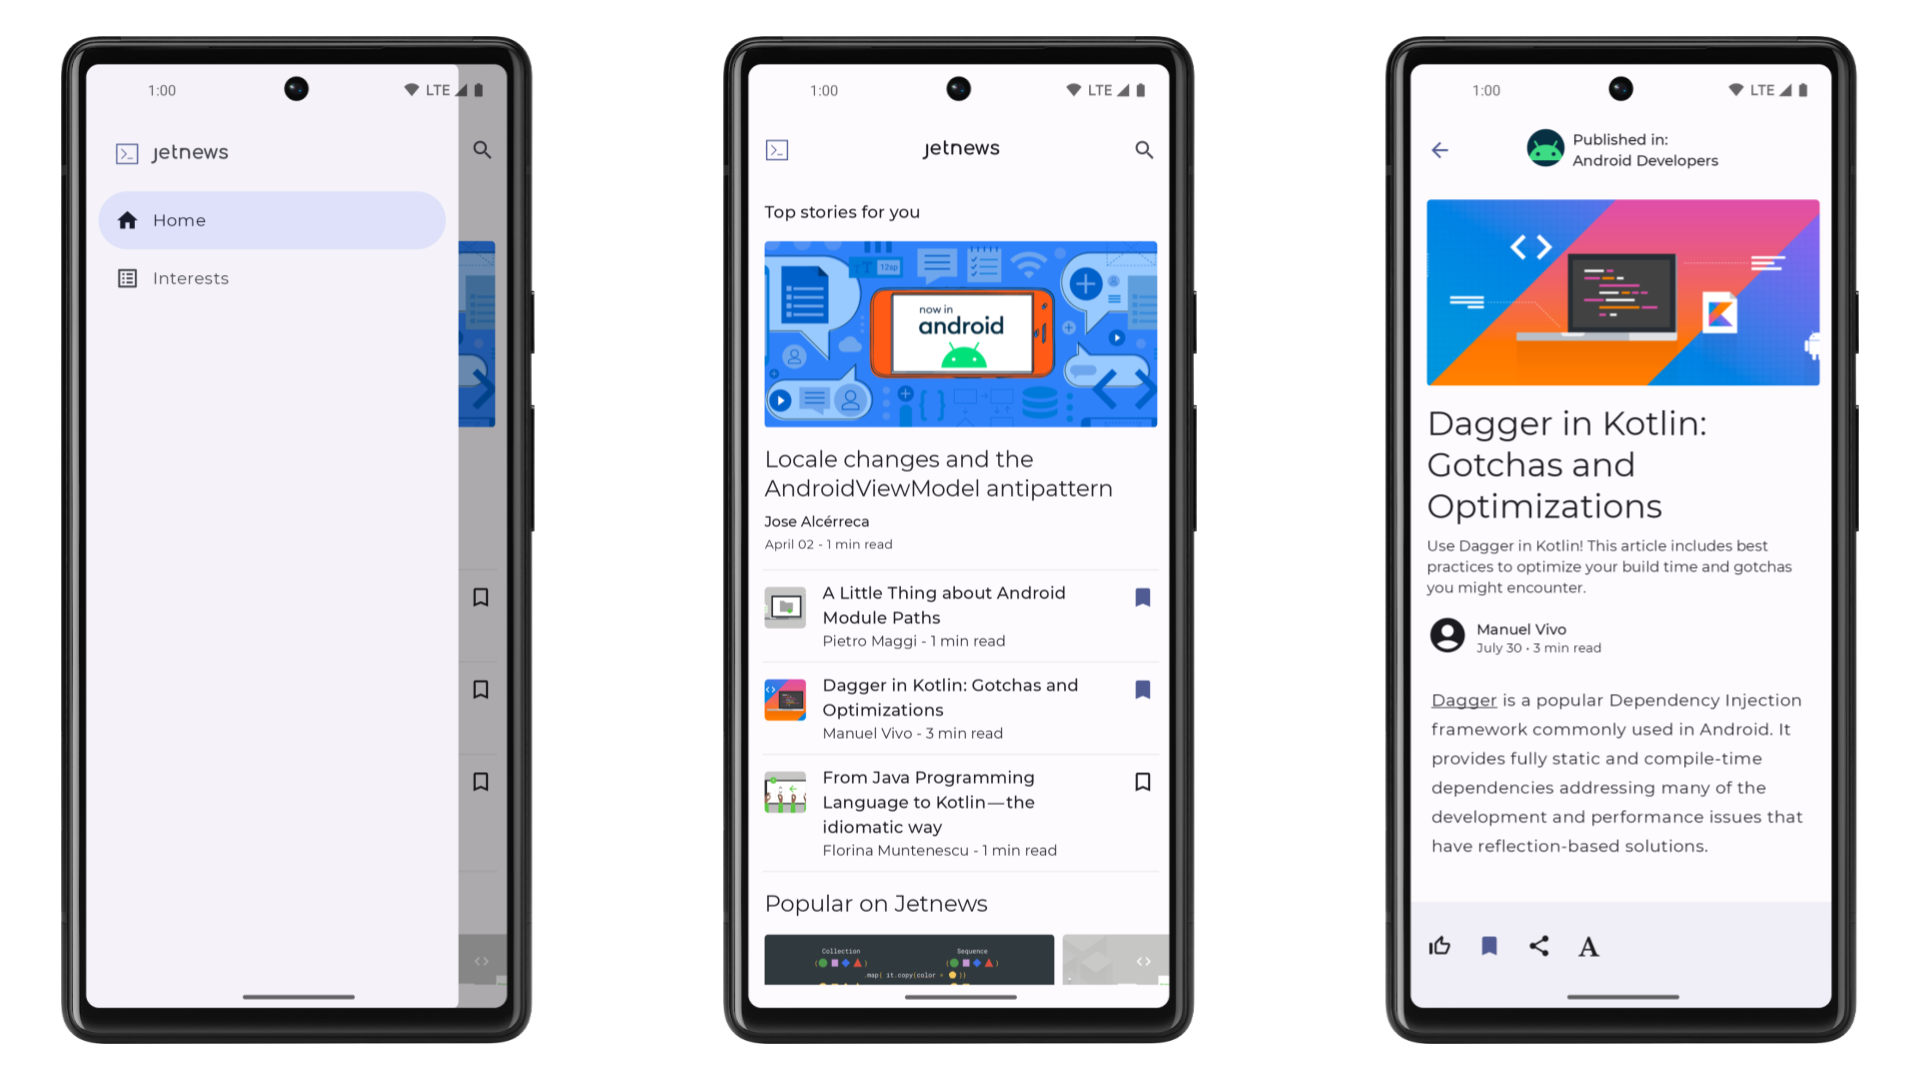
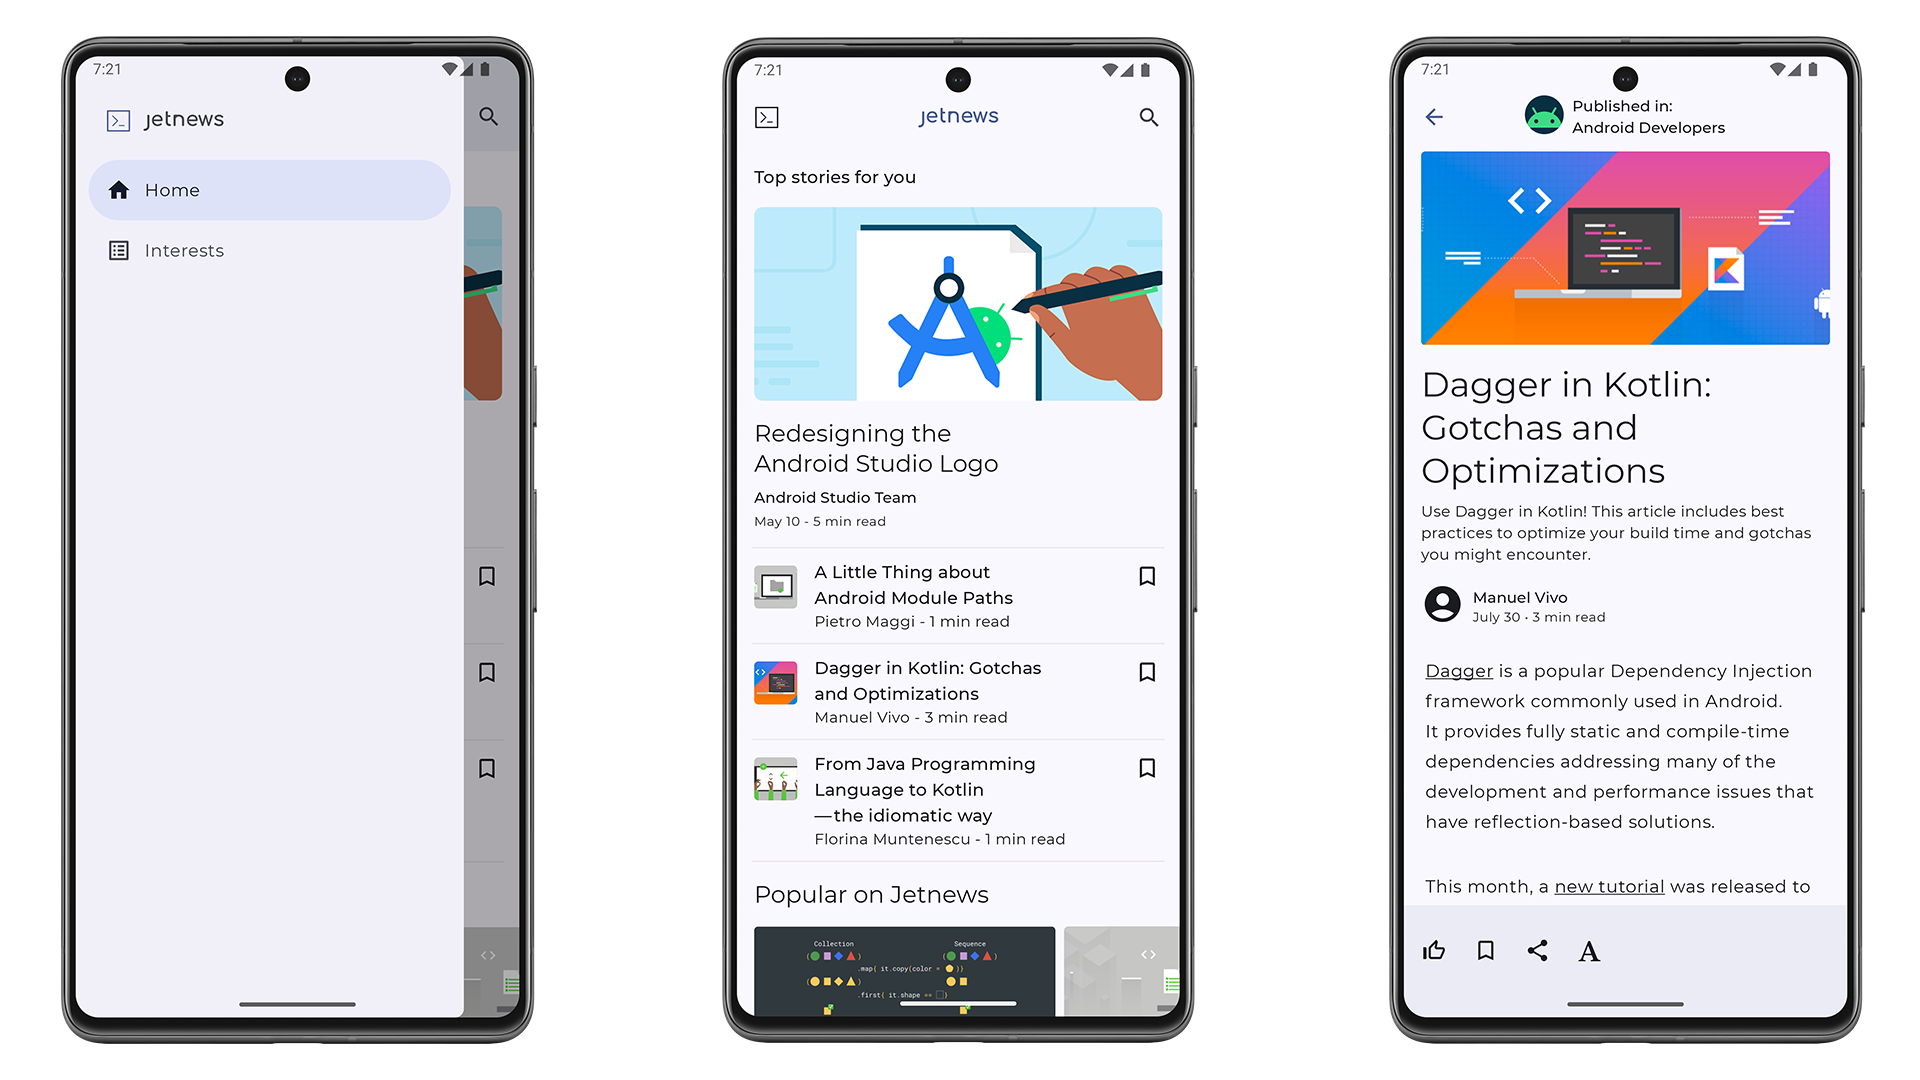
Update assets for article and theme

Changed region(s): [[0.7188, 0.0306, 0.9688, 0.9778], [0.375, 0.0306, 0.625, 0.9778], [0.0312, 0.0306, 0.2812, 0.9778]]

diff --git a/app/src/main/java/com/example/jetnews/data/posts/impl/PostsData.kt b/app/src/main/java/com/example/jetnews/data/posts/impl/PostsData.kt
@@ -41,6 +41,9 @@ val florina = PostAuthor(
 val jose =
     PostAuthor("Jose Alcérreca", "https://medium.com/@JoseAlcerreca")
 
+val androidstudioteam =
+    PostAuthor("Android Studio Team", "https://twitter.com/androidstudio")
+
 val publication = Publication(
     "Android Developers",
     "https://cdn-images-1.medium.com/max/258/1*u7oZc2_5mrkcFaxkXEyfYA@2x.png"
@@ -61,10 +64,10 @@ val paragraphsPost1 = listOf(
     Paragraph(
         ParagraphType.CodeBlock,
         "include ':app'\n" +
-            "include ':features:module1'\n" +
-            "include ':features:module2'\n" +
-            "include ':features:module3'\n" +
-            "include ':features:module4'"
+                "include ':features:module1'\n" +
+                "include ':features:module2'\n" +
+                "include ':features:module3'\n" +
+                "include ':features:module4'"
     ),
     Paragraph(
         ParagraphType.Text,
@@ -703,8 +706,8 @@ val paragraphsPost5 = listOf(
     Paragraph(
         ParagraphType.CodeBlock,
         "public inline fun <T, R> Iterable<T>.map(transform: (T) -> R): List<R> {\n" +
-            "  return mapTo(ArrayList<R>(collectionSizeOrDefault(10)), transform)\n" +
-            "}",
+                "  return mapTo(ArrayList<R>(collectionSizeOrDefault(10)), transform)\n" +
+                "}",
         listOf(
             Markup(MarkupType.Bold, 7, 13),
             Markup(MarkupType.Bold, 88, 97)
@@ -748,8 +751,8 @@ val paragraphsPost5 = listOf(
     Paragraph(
         ParagraphType.CodeBlock,
         "public fun <T, R> Sequence<T>.map(transform: (T) -> R): Sequence<R>{      \n" +
-            "   return TransformingSequence(this, transform)\n" +
-            "}",
+                "   return TransformingSequence(this, transform)\n" +
+                "}",
         listOf(Markup(MarkupType.Bold, 85, 105))
     ),
     Paragraph(
@@ -768,9 +771,9 @@ val paragraphsPost5 = listOf(
     Paragraph(
         ParagraphType.CodeBlock,
         "public inline fun <T> Sequence<T>.first(predicate: (T) -> Boolean): T {\n" +
-            "   for (element in this) if (predicate(element)) return element\n" +
-            "   throw NoSuchElementException(“Sequence contains no element matching the predicate.”)\n" +
-            "}"
+                "   for (element in this) if (predicate(element)) return element\n" +
+                "   throw NoSuchElementException(“Sequence contains no element matching the predicate.”)\n" +
+                "}"
     ),
     Paragraph(
         ParagraphType.Text,
@@ -783,7 +786,7 @@ val paragraphsPost5 = listOf(
     Paragraph(
         ParagraphType.CodeBlock,
         "internal class TransformingIndexedSequence<T, R> \n" +
-            "constructor(private val sequence: Sequence<T>, private val transformer: (Int, T) -> R) : Sequence<R> {",
+                "constructor(private val sequence: Sequence<T>, private val transformer: (Int, T) -> R) : Sequence<R> {",
         listOf(
             Markup(
                 MarkupType.Bold,
@@ -795,12 +798,12 @@ val paragraphsPost5 = listOf(
     Paragraph(
         ParagraphType.CodeBlock,
         "override fun iterator(): Iterator<R> = object : Iterator<R> {\n" +
-            "   …\n" +
-            "   override fun next(): R {\n" +
-            "     return transformer(checkIndexOverflow(index++), iterator.next())\n" +
-            "   }\n" +
-            "   …\n" +
-            "}",
+                "   …\n" +
+                "   override fun next(): R {\n" +
+                "     return transformer(checkIndexOverflow(index++), iterator.next())\n" +
+                "   }\n" +
+                "   …\n" +
+                "}",
         listOf(
             Markup(MarkupType.Bold, 83, 89),
             Markup(MarkupType.Bold, 107, 118)
@@ -934,6 +937,153 @@ val paragraphsPost5 = listOf(
     )
 )
 
+val paragraphsPost6 = listOf(
+    Paragraph(
+        ParagraphType.Text,
+        "The Android Studio logo redesign caught the attention of the developer community since its sneak peek at the Android Developer Summit. We are thrilled to release the new Android Studio logo with the stable release of Flamingo. Now that the new logo is available to most Android Studio users, we can examine the design changes in greater detail and decode their meaning."
+    ),
+    Paragraph(
+        ParagraphType.Text,
+        "This case study offers a comprehensive overview of the design journey, from identifying the initial problem to the final outcome. It explores the critical brand elements that the team needed to consider and the tools used throughout the redesign process. This case study also delves into the various stages of design exploration, highlighting the efforts to create a modern logo while honoring the Android Studio brand's legacy."
+    ),
+    Paragraph(
+        ParagraphType.Header,
+        "Identifying the problem"
+    ),
+    Paragraph(
+        ParagraphType.Text,
+        "You told us the Android Studio logo looked a little weird and complicated. It doesn't shrink down well and it's way too similar to the emulator. We heard you!"
+    ),
+    Paragraph(
+        ParagraphType.Text,
+        "The Android Studio logo used between 2020 and 2022 was well-suited for print, but it posed challenges when used as an application icon. Its readability suffered when reduced to smaller sizes, and its similarity to the emulator caused confusion."
+    ),
+    Paragraph(
+        ParagraphType.Text,
+        "Additionally, the use of color alone to differentiate between Canary and Stable versions made it difficult for users with color vision deficiencies."
+    ),
+    Paragraph(
+        ParagraphType.Text,
+        "The redesign aimed to resolve these concerns by creating a logo that was easy to read, visually distinctive, and followed the OS guidelines when necessary, ensuring accessibility. The new design also maintained a connection with the Android logo family while honoring its legacy."
+    ),
+    Paragraph(
+        ParagraphType.Text,
+        "In this case study, we will delve into the version history and evolution of the Android Studio logo and how it has changed over the years."
+    ),
+    Paragraph(
+        ParagraphType.Header,
+        "A brief history of the Android Studio logo"
+    ),
+    Paragraph(
+        ParagraphType.Bullet,
+        "2013: The original Android Studio logo was a 3D robot that highlighted the gears and interworking of the bugdroid. At this time, the Android Emulator was the bugdroid.",
+        listOf(
+            Markup(MarkupType.Bold, 0, 5)
+        )
+    ),
+    Paragraph(
+        ParagraphType.Bullet,
+        "2014: The Android Emulator merged to a flat mark but remained otherwise unchanged.",
+        listOf(
+            Markup(MarkupType.Bold, 0, 5)
+        )
+    ),
+    Paragraph(
+        ParagraphType.Bullet,
+        "2014-2019: An updated Android Studio logo was introduced featuring an \"A\" compass in front of a green circle.",
+        listOf(
+            Markup(MarkupType.Bold, 0, 10)
+        )
+    ),
+    Paragraph(
+        ParagraphType.Bullet,
+        "2019: In Canary 3.6, the color palette was updated to match Android 10.",
+        listOf(
+            Markup(MarkupType.Bold, 0, 5)
+        )
+    ),
+    Paragraph(
+        ParagraphType.Bullet,
+        "2020-2022: With the release of Android Studio 4.1 Canary, the \"A\" compass was reduced to an abstract form placed in front of a blueprint. The Android head was also added, peeking over the top.",
+        listOf(
+            Markup(MarkupType.Bold, 0, 10)
+        )
+    ),
+    Paragraph(
+        ParagraphType.Header,
+        "Understanding the Android brand elements"
+    ),
+    Paragraph(
+        ParagraphType.Text,
+        "When redesigning a logo, it's important to consider brand elements that unify products within an ecosystem. For the Android Developer ecosystem, the \"robot head\" is a key brand element, alongside the primaryAndroid green color. The secondary colors blue and navy, and tertiary colors like orange, can also be utilized for support."
+    ),
+    Paragraph(
+        ParagraphType.Header,
+        "Key objectives"
+    ),
+    Paragraph(
+        ParagraphType.Bullet,
+        "Iconography: use recognizable and appropriate symbols, such as compass \"A\" for Android Studio or a device for Android Emulator, to convey the purpose and functionality clearly and quickly.",
+        listOf(
+            Markup(MarkupType.Bold, 0, 12)
+        )
+    ),
+    Paragraph(
+        ParagraphType.Bullet,
+        "Enhance recognition and scalability: the Android Studio and Android Emulator should prioritize legibility and scalability, ensuring that they can be easily recognized and understood even at smaller sizes.",
+        listOf(
+            Markup(MarkupType.Bold, 0, 36)
+        )
+    ),
+    Paragraph(
+        ParagraphType.Bullet,
+        "Establish distinction: the Android Studio and Android Emulator need to be easily distinguishable, to avoid confusion.",
+        listOf(
+            Markup(MarkupType.Bold, 0, 22)
+        )
+    ),
+    Paragraph(
+        ParagraphType.Bullet,
+        "Maintain brand consistency: the Android Studio and Android Emulator designs should be consistent with the overall branding and visual identity of the Android family, while still being distinctive.",
+        listOf(
+            Markup(MarkupType.Bold, 0, 27)
+        )
+    ),
+    Paragraph(
+        ParagraphType.Bullet,
+        "Ensure accessibility: the logo should be accessible to all users, including those with visual impairments. This means using clear shapes, colors, and contrast.",
+        listOf(
+            Markup(MarkupType.Bold, 0, 21)
+        )
+    ),
+    Paragraph(
+        ParagraphType.Bullet,
+        "Follow OS guidelines: the updated application icon must align with the Android visual language and conform to the guidelines of macOS, Windows, and Linux operating systems, ensuring consistency and coherence across all platforms.",
+        listOf(
+            Markup(MarkupType.Bold, 0, 21)
+        )
+    ),
+    Paragraph(
+        ParagraphType.Bullet,
+        "Ensure versatility: the Android Studio logo should be versatile enough to work in a variety of sizes and contexts, such as on different devices and platforms.",
+        listOf(
+            Markup(MarkupType.Bold, 0, 20)
+        )
+    ),
+    Paragraph(
+        ParagraphType.Text,
+        "Read More",
+        listOf(
+            Markup(
+                MarkupType.Link,
+                0,
+                9,
+                "https://android-developers.googleblog.com/2023/05/redesigning-android-studio-logo.html"
+            )
+        )
+    )
+)
+
 val post1 = Post(
     id = "dc523f0ed25c",
     title = "A Little Thing about Android Module Paths",
@@ -1014,9 +1164,25 @@ val post5 = Post(
     imageThumbId = R.drawable.post_5_thumb
 )
 
+val post6 = Post(
+    id = "55db18283ac0",
+    title = "Redesigning the Android Studio Logo",
+    subtitle = "A case study offering a comprehensive overview of the design journey of the Android Studio product logo.",
+    url = "https://android-developers.googleblog.com/2023/05/redesigning-android-studio-logo.html",
+    publication = publication,
+    metadata = Metadata(
+        author = androidstudioteam,
+        date = "May 10",
+        readTimeMinutes = 5
+    ),
+    paragraphs = paragraphsPost6,
+    imageId = R.drawable.post_6,
+    imageThumbId = R.drawable.post_6_thumb
+)
+
 val posts: PostsFeed =
     PostsFeed(
-        highlightedPost = post4,
+        highlightedPost = post6,
         recommendedPosts = listOf(post1, post2, post3),
         popularPosts = listOf(
             post5,
@@ -1024,6 +1190,7 @@ val posts: PostsFeed =
             post2.copy(id = "post7")
         ),
         recentPosts = listOf(
+            post6,
             post3.copy(id = "post8"),
             post4.copy(id = "post9"),
             post5.copy(id = "post10")

diff --git a/app/src/main/java/com/example/jetnews/ui/interests/InterestsScreen.kt b/app/src/main/java/com/example/jetnews/ui/interests/InterestsScreen.kt
@@ -40,6 +40,7 @@ import androidx.compose.material.icons.filled.Search
 import androidx.compose.material3.CenterAlignedTopAppBar
 import androidx.compose.material3.Divider
 import androidx.compose.material3.ExperimentalMaterial3Api
+import androidx.compose.material3.HorizontalDivider
 import androidx.compose.material3.Icon
 import androidx.compose.material3.IconButton
 import androidx.compose.material3.MaterialTheme
@@ -128,7 +129,8 @@ fun InterestsScreen(
                 title = {
                     Text(
                         text = stringResource(R.string.cd_interests),
-                        style = MaterialTheme.typography.titleLarge
+                        style = MaterialTheme.typography.titleLarge,
+                        color = MaterialTheme.colorScheme.primary
                     )
                 },
                 navigationIcon = {
@@ -139,7 +141,6 @@ fun InterestsScreen(
                                 contentDescription = stringResource(
                                     R.string.cd_open_navigation_drawer
                                 ),
-                                tint = MaterialTheme.colorScheme.primary
                             )
                         }
                     }
@@ -233,7 +234,7 @@ private fun InterestScreenContent(
     val selectedTabIndex = tabContent.indexOfFirst { it.section == currentSection }
     Column(modifier) {
         InterestsTabRow(selectedTabIndex, updateSection, tabContent, isExpandedScreen)
-        Divider(
+        HorizontalDivider(
             color = MaterialTheme.colorScheme.onSurface.copy(alpha = 0.1f)
         )
         Box(modifier = Modifier.weight(1f)) {
@@ -352,7 +353,7 @@ private fun TopicItem(
             Spacer(Modifier.width(16.dp))
             SelectTopicButton(selected = selected)
         }
-        Divider(
+        HorizontalDivider(
             modifier = modifier.padding(start = 72.dp, top = 8.dp, bottom = 8.dp),
             color = MaterialTheme.colorScheme.onSurface.copy(alpha = 0.1f)
         )

diff --git a/app/src/main/java/com/example/jetnews/ui/home/PostCardTop.kt b/app/src/main/java/com/example/jetnews/ui/home/PostCardTop.kt
@@ -52,7 +52,7 @@ fun PostCardTop(post: Post, modifier: Modifier = Modifier) {
         val imageModifier = Modifier
             .heightIn(min = 180.dp)
             .fillMaxWidth()
-            .clip(shape = MaterialTheme.shapes.medium)
+            .clip(shape = MaterialTheme.shapes.large)
         Image(
             painter = painterResource(post.imageId),
             contentDescription = null, // decorative
